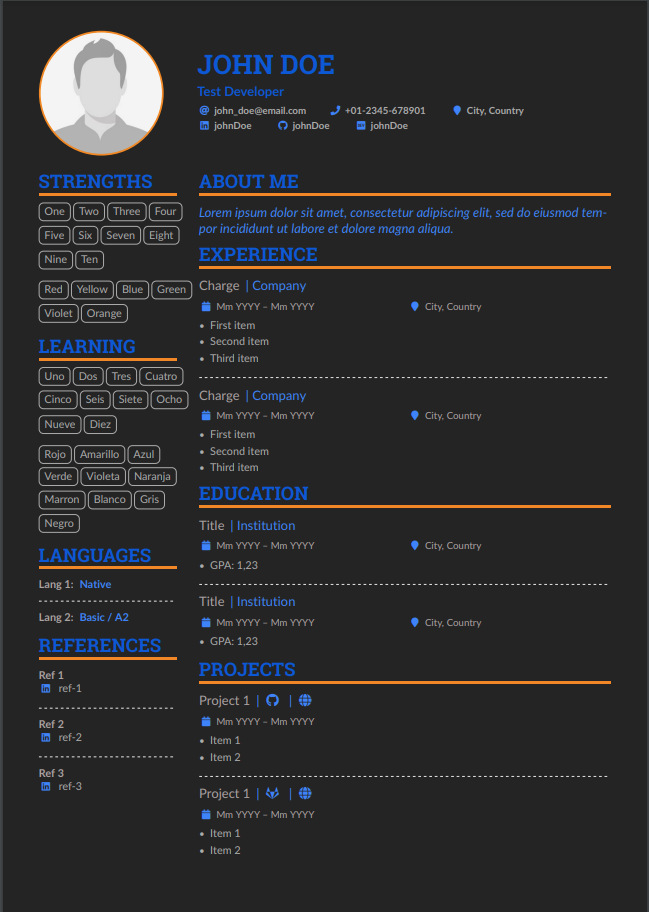
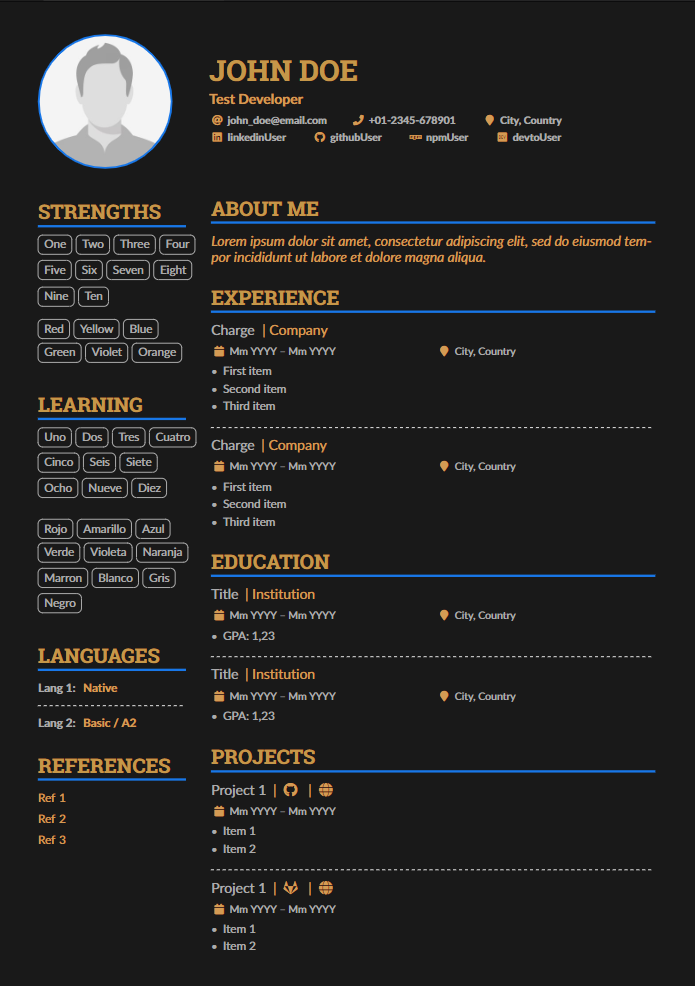
Documentation improved in README and code. Samples updated

diff --git a/main.tex b/main.tex
@@ -24,9 +24,9 @@
 %% Use the "normalphoto" option if you want a normal photo instead of cropped to a circle
 % \documentclass[10pt,a4paper,normalphoto]{altacv}
 
-%% Fork: CV dark mode toggle enabler to use a inverted color palette.
+%% Fork (before v1.6.5a): CV dark mode toggle enabler to use a inverted color palette.
 %% Use the "darkmode" option if you want a color palette used to 
-% \documentclass[10pt,a4paper,darkmode]{altacv}
+% \documentclass[10pt,a4paper,ragged2e,withhyper,darkmode]{altacv}
 
 \documentclass[10pt,a4paper,ragged2e,withhyper]{altacv}
 
@@ -55,14 +55,14 @@
   \renewcommand{\familydefault}{\sfdefault}
 \fi
 
-% Fork: Change the color codes to test your personal variant on any mode
+% Fork (before v1.6.5a): Change the color codes to test your personal variant on any mode
 \ifdarkmode%
-  \definecolor{PrimaryColor}{HTML}{FFCF59}
-  \definecolor{SecondaryColor}{HTML}{F2D6A1}
+  \definecolor{PrimaryColor}{HTML}{C69749}
+  \definecolor{SecondaryColor}{HTML}{D49B54}
   \definecolor{ThirdColor}{HTML}{1877E8}
   \definecolor{BodyColor}{HTML}{ABABAB}
-  \definecolor{EmphasisColor}{HTML}{ABA2A2}
-  \definecolor{BackgroundColor}{HTML}{222831}
+  \definecolor{EmphasisColor}{HTML}{ABABAB}
+  \definecolor{BackgroundColor}{HTML}{191919}
 \else%
   \definecolor{PrimaryColor}{HTML}{001F5A}
   \definecolor{SecondaryColor}{HTML}{0039AC}

diff --git a/README.md b/README.md
@@ -2,6 +2,8 @@
 
 v1.6.5 (3 Nov 2022), by LianTze Lim (liantze@gmail.com)
 
+v1.6.5a (29 Jan 2023), by Nicolás Omar González Passerino (nicolas.passerino@gmail.com)
+
 ## Original Sample
 
 * Added \mynames{...} to specify names to be highlighted in the publication list on 3 Nov 2022
@@ -13,17 +15,25 @@ v1.6.5 (3 Nov 2022), by LianTze Lim (liantze@gmail.com)
 
 ## Forked Sample
 
-As a personal adition, I wanted to add a color variation following the "dark mode". In order to use it, add the `darkmode` option in line 31 of file `main.tex`.
+Before v1.6.5a:
+* **Added:** Contact options added for dev.to, medium and npm accounts.
+* **Added:** Adapted color scheme as well as `darkmode` (enable in line 31 of file `main.tex`).
+* **Added:** (`\cvlang`) tag added for languages rating, avoiding star/button/progress bar previous ideas, I made a simpler and more accurate representation using a single string, which will be colored to be oustanding.
+* **Updated:** (`\@makeaphoto`) Photo image has modified to include a border around it, which color is aligned to document's theme.
+* **Updated:** (`\altacv@add@photo@left`) Horizontal space changed from 1ex to 6,5ex to align photo container width to smaller column width (25%).
+* **Updated:** (`\cvsection`) separation has been changed by adding 2 `\bigskip`.
+* **Updated:** (`\cvevent`) structure modified to include change title, company name, start/end dates and work location (only a string).
+* **Updated:** (`\cvtag`) items now have a more consistent vertican and horizontal separation.
 
-Though if you're creating your own CV/résumé, you'd probably prefer using the basic template ([view/open on Overleaf](https://www.overleaf.com/latex/templates/altacv-nicolasomar-fork/htfpmrwhbwpw)):
+Though if you're creating your own CV/résumé, you'd probably prefer using the online template ([view/open on Overleaf](https://www.overleaf.com/latex/templates/altacv-nicolasomar-fork/htfpmrwhbwpw)):
 
 This is how the final version looks like on:
 
 ### Light mode
-<img src="sampleLightMode.png" alt="Résumé sample | Light mode, based on AltaCV" width="300px">
+<img src="sampleLightMode.png" title="Résumé sample | Light mode, based on AltaCV" alt="Résumé sample | Light mode, based on AltaCV" width="300px">
 
 ### Dark mode
-<img src="sampleDarkMode.png" alt="Résumé sample | Dark mode, based on AltaCV" width="300px">
+<img src="sampleDarkMode.png" title="Résumé sample | Dark mode, based on AltaCV" alt="Résumé sample | Dark mode, based on AltaCV" width="300px">
 
 ## Requirements and Compilation
 
